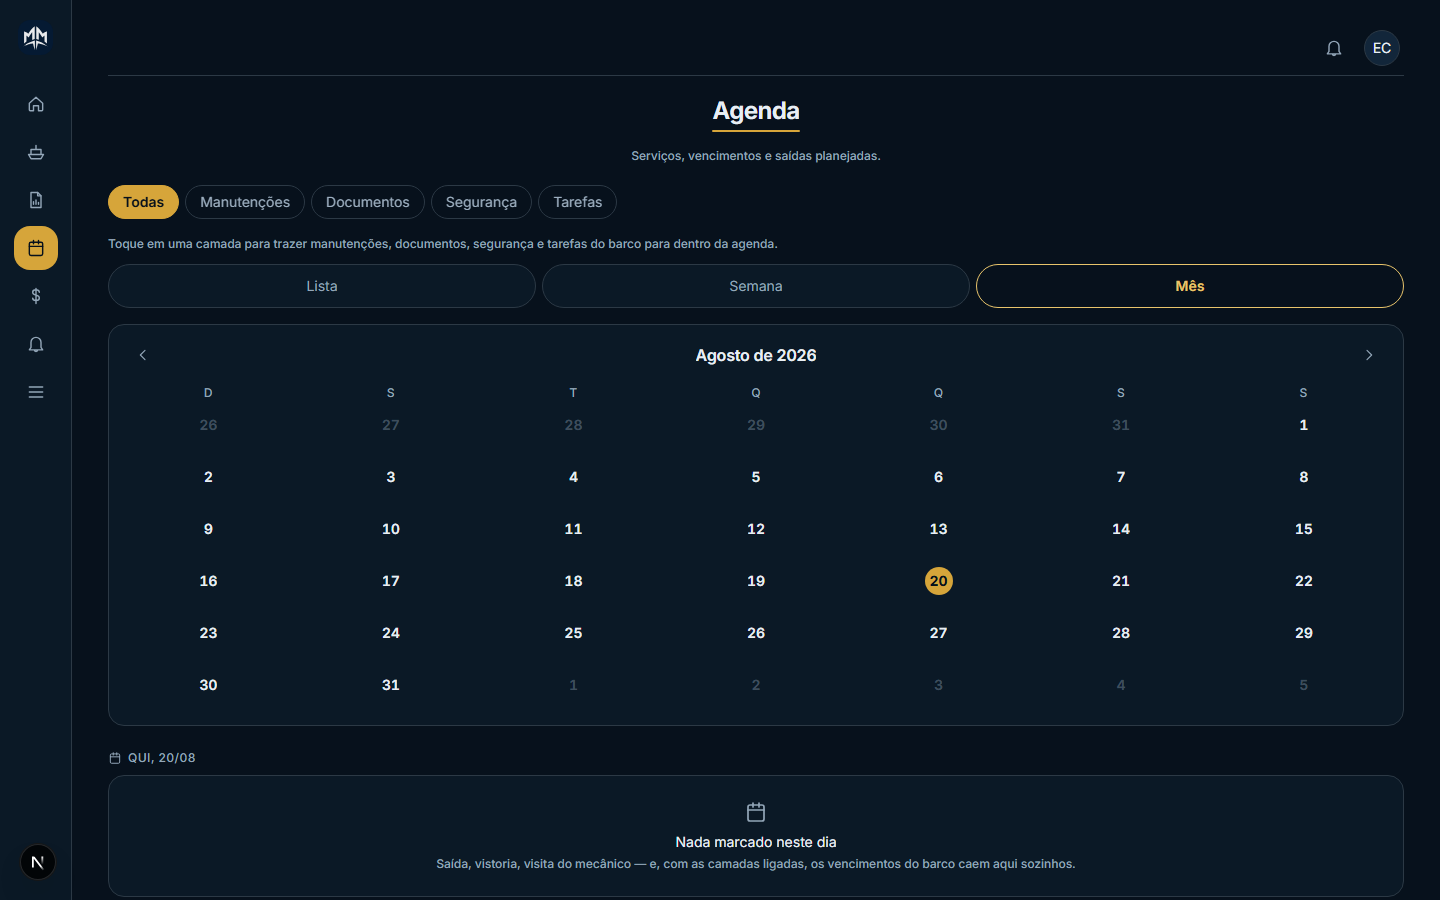
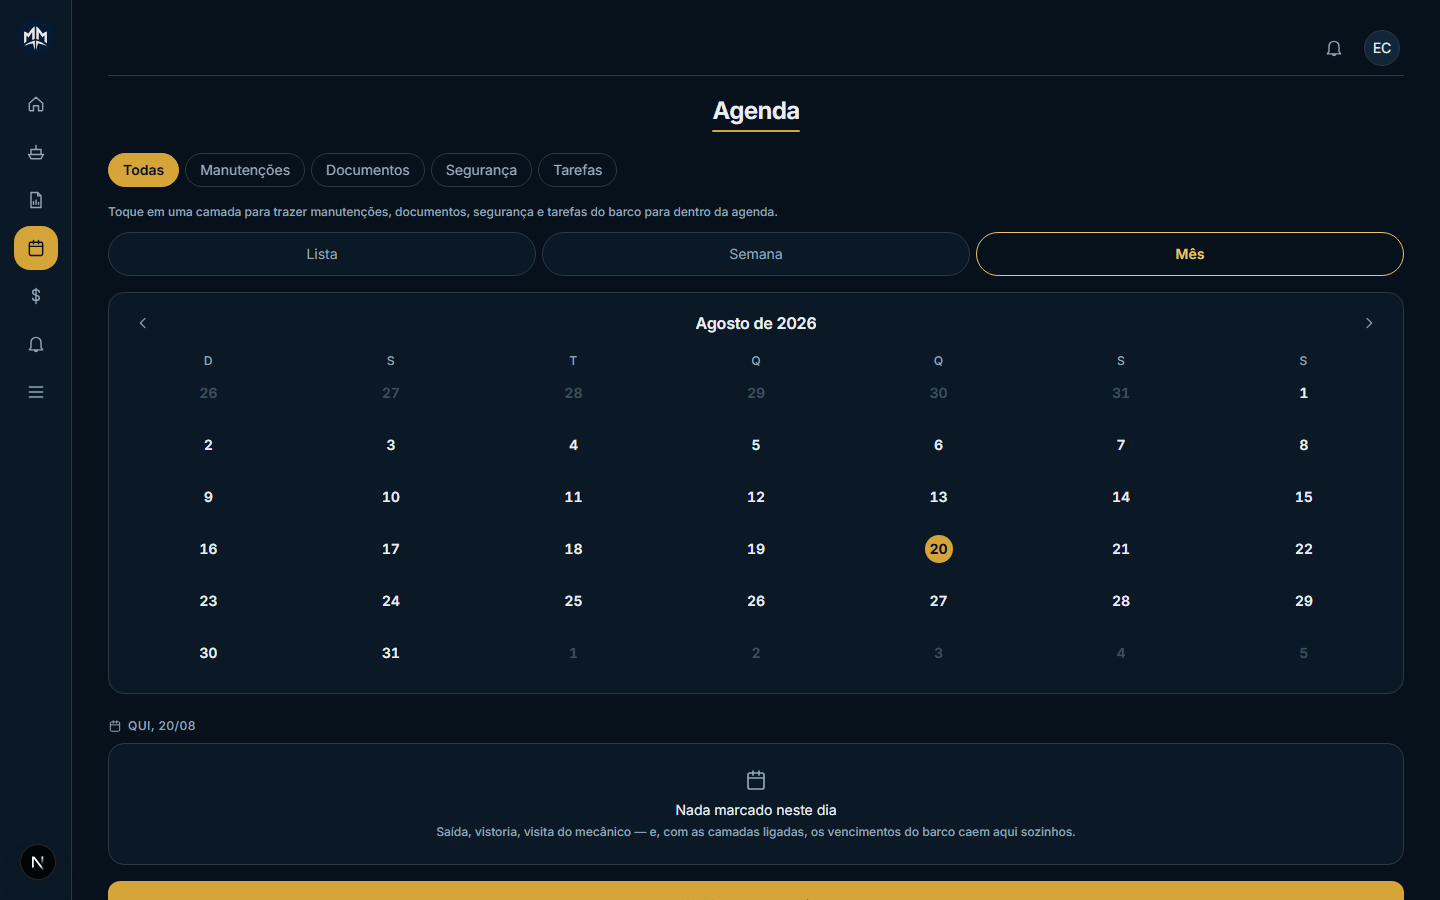
fix(onda 116): dezenove subtítulos-dicionário saem do app
O dono, com o print de Relatórios na mão: *"temos lá o título bonito e perfeito
e embaixo escrito várias palavras aleatórias querendo descrever do que se trata
um relatório... desnecessário. Como esse tem alguns outros casos no app todo."*

Tinha. A varredura achou DEZENOVE, e todos são a mesma doença: uma linha de
apoio que DEFINE a palavra do título em vez de informar alguma coisa —
dicionário, não interface.

O CRITÉRIO DO CORTE, para a próxima pessoa que escrever um subtítulo: se a
linha não muda o que a pessoa faz, ela sai. Ficaram as que carregam DADO
("12 documentos · 10 em dia", o resumo de Documentos), ESTADO ("Você entrou
como CEO", "acesso desativado"), CONSEQUÊNCIA não óbvia ("o que estiver aqui
aparece no Verified", "você só recebe aviso das áreas a que tem acesso") ou
INSTRUÇÃO de fluxo (login, nova senha). Saiu tudo que era enumeração do óbvio.

OS DOZE DE PÁGINA:
  Relatórios      "custo por mês, uso e o que sai do bolso — do que está
                   registrado no Diário"        ← o print do dono
  Agenda          "Serviços, vencimentos e saídas planejadas"
  Histórico       "Tudo que aconteceu no barco — diário, manutenções e
                   ocorrências, num lugar só"
  Diário          "Toda saída, abastecimento e serviço registrado a bordo"
  Explorar        "Marinas, postos, lojas, prestadores, restaurantes e..."
  Financeiro      "O dinheiro do barco: o que saiu, o que entrou e..."
[…]

diff --git a/web/app/(app)/diario/page.tsx b/web/app/(app)/diario/page.tsx
@@ -109,7 +109,6 @@ export default async function DiarioPage({
       <h1 className="titulo-pagina">Diário de Bordo</h1>
       {/* A frase de baixo do título é a do canvas (tela-3a): diz de uma vez o
           que mora aqui, pra primeira visita não precisar deduzir do filtro. */}
-      <p className="apoio mt-1 text-dim">Toda saída, abastecimento e serviço registrado a bordo.</p>
       {/* Importar do plotter (onda 21) — anos de trilha ja gravada no
           Garmin/Raymarine/Navionics viram saida de uma vez, sem digitar nada.
           Segunda acao discreta pra nao competir com o "Registrar" da

diff --git a/web/app/(app)/agenda/page.tsx b/web/app/(app)/agenda/page.tsx
@@ -245,8 +245,7 @@ export default async function AgendaPage({
       {/* ONDA 114 — o título entra no padrão centralizado das telas
           principais (`TituloTela`, onda 105); ficar à esquerda aqui era a
           última tela de primeiro nível fora do eixo. */}
-      <TituloTela className="mb-1">Agenda</TituloTela>
-      <p className="apoio mb-2 text-center text-dim">Serviços, vencimentos e saídas planejadas.</p>
+      <TituloTela>Agenda</TituloTela>
 
       {erro && <p className="corpo mt-3 rounded-[var(--raio-controle)] border border-crit/40 bg-crit/10 px-3 py-2">{erro}</p>}
 

diff --git a/web/app/(app)/prestadores/page.tsx b/web/app/(app)/prestadores/page.tsx
@@ -70,9 +70,6 @@ export default async function PrestadoresPage({
     <main>
       <h1 className="titulo-pagina">Prestadores</h1>
       <p className="apoio mt-1 text-dim">
-        Mecânico, eletricista, fibra e outros profissionais náuticos disponíveis para contratar direto pelo WhatsApp.
-      </p>
-      <p className="apoio mt-1 text-dim">
         São PESSOAS. Marinas, postos, pousadas e restaurantes ficam em{" "}
         {/* A EXCEÇÃO que continua texto: link no meio de frase corrida. O
             sublinhado é o affordance certo aqui — pílula no meio de um

diff --git a/web/app/(app)/marketplace/page.tsx b/web/app/(app)/marketplace/page.tsx
@@ -139,10 +139,6 @@ export default async function MarketplacePage({
   return (
     <main>
       <h1 className="titulo-pagina">Marketplace</h1>
-      <p className="apoio mt-1 text-dim">
-        Diga o que você precisa — profissional, tripulação, peça, vaga ou caminhão de combustível — e quem
-        atende a sua região responde por aqui.
-      </p>
       {aviso && <p className="corpo mt-3 rounded-[var(--raio-controle)] border border-crit/40 bg-crit/10 px-3 py-2">{aviso}</p>}
       <RedeNav atual="marketplace" className="mt-4" />
 

diff --git a/web/app/(app)/mensagens/page.tsx b/web/app/(app)/mensagens/page.tsx
@@ -43,9 +43,6 @@ export default async function MensagensPage({
   return (
     <main>
       <h1 className="titulo-pagina">Mensagens</h1>
-      <p className="apoio mt-1 text-dim">
-        Suas conversas com quem publicou um pedido ou respondeu ao seu. Fica tudo registrado aqui.
-      </p>
       {erro && <p className="corpo mt-3 rounded-[var(--raio-controle)] border border-crit/40 bg-crit/10 px-3 py-2">{erro}</p>}
       {ok && <p className="corpo mt-3 rounded-[var(--raio-controle)] border border-ok/40 bg-ok/10 px-3 py-2">{ok}</p>}
 

diff --git a/web/app/(app)/barco/seguranca/page.tsx b/web/app/(app)/barco/seguranca/page.tsx
@@ -55,7 +55,6 @@ export default async function SegurancaPage() {
         voltarHref="/barco"
         voltarRotulo="Barco"
         hub="seguranca"
-        descricao="Colete, extintor, balsa e sinalização."
         /* ONDA 106 — A PÍLULA DOURADA DO CABEÇALHO SAIU. A ação desceu para o
            botão de largura cheia logo abaixo dos números, que é onde a imagem 3
            a desenha. Manter as duas seria a MESMA ação escrita duas vezes na

diff --git a/web/app/(app)/explorar/page.tsx b/web/app/(app)/explorar/page.tsx
@@ -289,9 +289,6 @@ function Cabecalho({ noMapa }: { noMapa: boolean }) {
     <div className="mt-3 flex items-start justify-between gap-3">
       <div>
         <h1 className="titulo-pagina">Explorar Parceiros</h1>
-        <p className="apoio mt-1 text-dim">
-          Marinas, postos, lojas, prestadores, restaurantes e pousadas da rede Commander.
-        </p>
       </div>
       <Link
         href={noMapa ? "/explorar" : "/explorar?vista=mapa"}

diff --git a/web/app/(app)/financeiro/page.tsx b/web/app/(app)/financeiro/page.tsx
@@ -91,7 +91,6 @@ export default async function FinanceiroPage({
   return (
     <main>
       <h1 className="titulo-pagina">Financeiro</h1>
-      <p className="apoio mt-1 text-dim">O dinheiro do barco: o que saiu, o que entrou e o que ainda vence.</p>
       {erro && <p className="corpo mt-3 rounded-[var(--raio-controle)] border border-crit/40 bg-crit/10 px-3 py-2">{erro}</p>}
 
       <FinanceiroNav atual="visao" className="mt-4" />

diff --git a/web/app/(app)/barco/casco/page.tsx b/web/app/(app)/barco/casco/page.tsx
@@ -68,7 +68,6 @@ export default async function CascoPage() {
         voltarHref="/barco"
         voltarRotulo="Barco"
         hub="casco"
-        descricao="Deck, fibra, inox, vidros e estofados."
         acao={editavel ? (
           // `alvo=cat:casco_outros` e não `/barco/itens/novo` pelado: "Outros"
           // é o balde do Casco, então o formulário abre já na área certa (a

diff --git a/web/app/(app)/barco/resumos/page.tsx b/web/app/(app)/barco/resumos/page.tsx
@@ -156,9 +156,6 @@ export default async function ResumosPage({
       </Link>
 
       <h1 className="titulo-pagina mt-3">Relatórios</h1>
-      <p className="apoio mt-1 text-dim">
-        {embarcacao.nome} · custo por mês, uso e o que sai do bolso — do que está registrado no Diário.
-      </p>
 
       <Abas
         className="no-imprimir mt-4"

diff --git a/web/app/(app)/financeiro/recorrentes/page.tsx b/web/app/(app)/financeiro/recorrentes/page.tsx
@@ -75,7 +75,6 @@ export default async function RecorrentesPage({
   return (
     <main>
       <h1 className="titulo-pagina">Financeiro</h1>
-      <p className="apoio mt-1 text-dim">O que se repete: vaga, seguro, tripulação, financiamento.</p>
 
       <FinanceiroNav atual="recorrentes" className="mt-4" />
       <AcoesUniversais className="mt-3" />

diff --git a/web/app/(app)/financeiro/relatorios/page.tsx b/web/app/(app)/financeiro/relatorios/page.tsx
@@ -133,7 +133,6 @@ export default async function RelatoriosPage({
   return (
     <main>
       <h1 className="titulo-pagina">Financeiro</h1>
-      <p className="apoio mt-1 text-dim">Fecha o mês, o ano ou o período que você escolher.</p>
 
       <FinanceiroNav atual="relatorios" className="mt-4" />
       <AcoesUniversais className="mt-3" />
